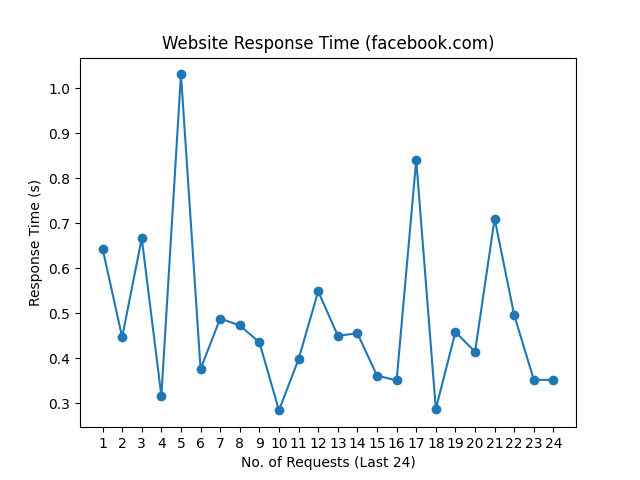
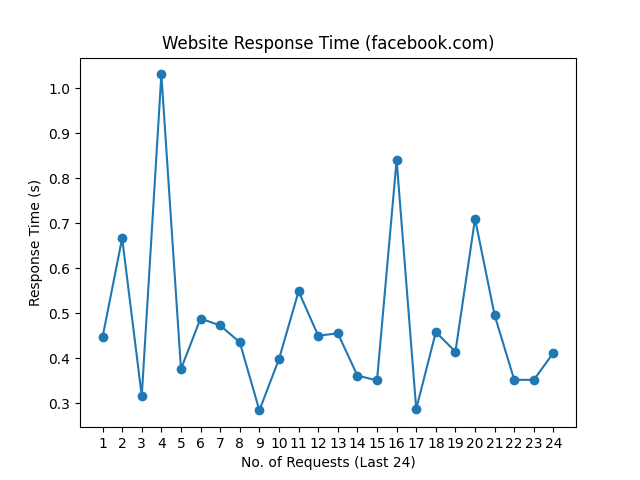
update README.md, history and graph

Changed region(s): [[0.1562, 0.125, 0.875, 0.875]]

diff --git a/README.md b/README.md
@@ -1,10 +1,10 @@
 # Web Monitoring
 
-Last Checked: 06/10/2023 09:00
+Last Checked: 07/10/2023 08:59
 
 | Website | Response Time (s) | Status | Avg Uptime (%) |
 |---------|-------------------|--------|----------------|
 | www.thiswebsiteisdown.net | 0 <br> <img src="graph/thiswebsiteisdown.net.png" alt="Graph" width="200" height="200">  | ❌ Down | 0.00 |
-| www.netflix.com | 0.561616 <br> <img src="graph/netflix.com.png" alt="Graph" width="200" height="200">  | ✅ Up | 100.00 |
-| www.google.com | 0.082325 <br> <img src="graph/google.com.png" alt="Graph" width="200" height="200">  | ✅ Up | 100.00 |
-| www.facebook.com | 0.352240 <br> <img src="graph/facebook.com.png" alt="Graph" width="200" height="200">  | ✅ Up | 100.00 |
+| www.netflix.com | 0.524809 <br> <img src="graph/netflix.com.png" alt="Graph" width="200" height="200">  | ✅ Up | 100.00 |
+| www.google.com | 0.086399 <br> <img src="graph/google.com.png" alt="Graph" width="200" height="200">  | ✅ Up | 100.00 |
+| www.facebook.com | 0.412415 <br> <img src="graph/facebook.com.png" alt="Graph" width="200" height="200">  | ✅ Up | 100.00 |
